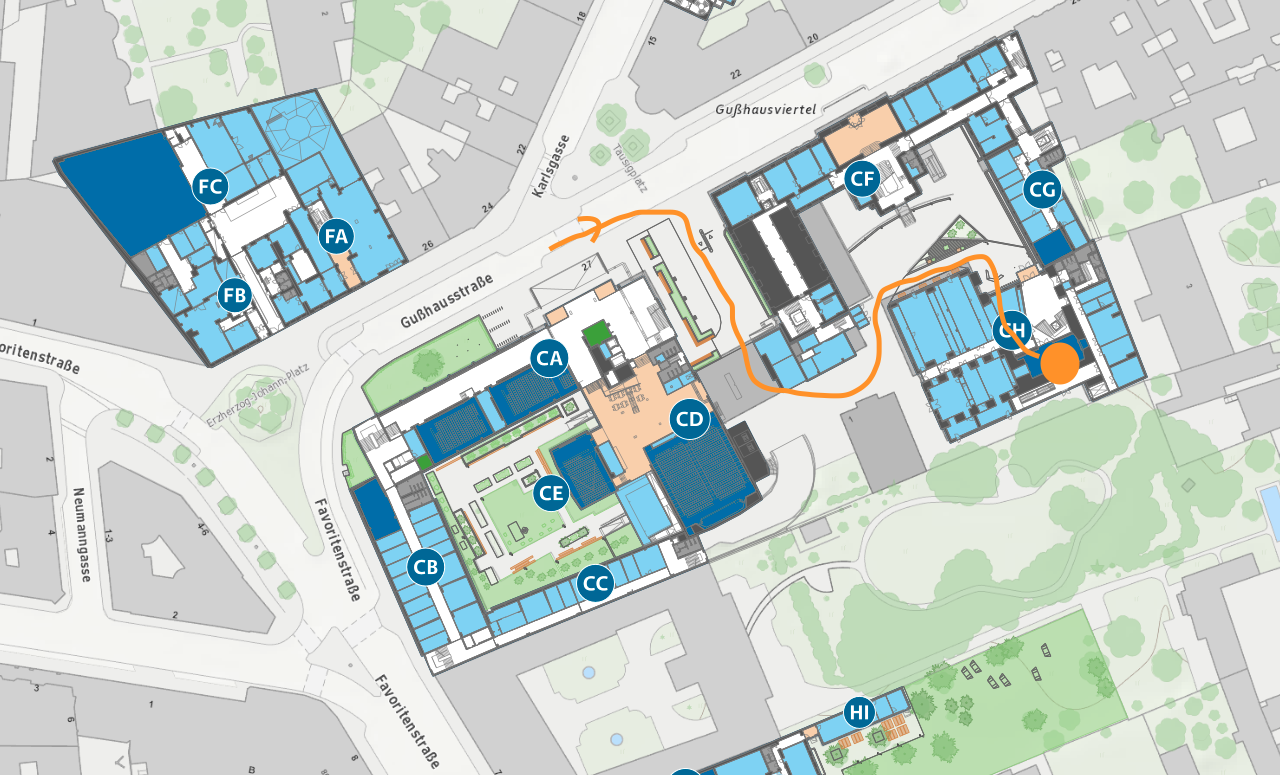
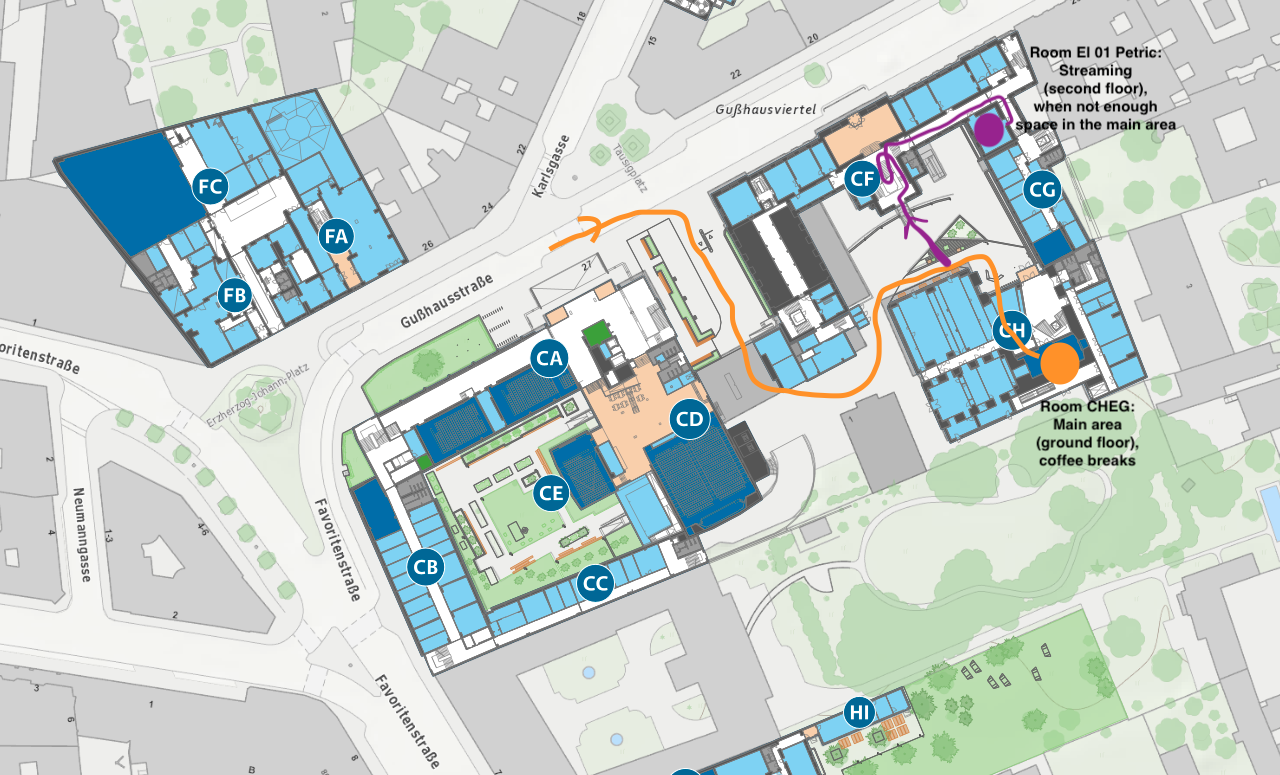
venue extra room

Changed region(s): [[0.6875, 0.0619, 0.9375, 0.3406], [0.8125, 0.4955, 0.9062, 0.6194]]

diff --git a/2023/index.html b/2023/index.html
@@ -158,7 +158,8 @@
     <h3>Venue</h3>
 
     <p>Gußhausstraße 27 - 29, 1040 Wien, Austria</p>
-    <p>4.OG, Seminarraum CH EG, Room number CD 04 04</p>
+    <p>Main area: 4.OG, Seminarraum CH EG, Room number CD 04 04 (ground floor) </p>
+    <p>Streaming (when not enough space): Room El 01 Petric (second floor, counting from zero)</p>
     <a href="venue.png">How to get there (map)</a>.
 
     <p><b>Roadblocks:</b> On Sunday, 23rd April 2023, is the Vienna City Marathon. Some roads are going to be closed and some forms of public transport will be unavailable. However, the ubahn (underground metro) should run smoothly during the event, so plan your route to the venue accordingly.</p>

diff --git a/2023/local-info.html b/2023/local-info.html
@@ -28,7 +28,8 @@
     <h3>Venue</h3>
 
     <p>Gußhausstraße 27 - 29, 1040 Wien, Austria</p>
-    <p>4.OG, Seminarraum CH EG, Room number CD 04 04</p>
+    <p>Main area: 4.OG, Seminarraum CH EG, Room number CD 04 04 (ground floor) </p>
+    <p>Streaming (when not enough space): Room El 01 Petric (second floor, counting from zero)</p>
     <a href="venue.png">How to get there (map)</a>.
 
     <p><b>Roadblocks:</b> On Sunday, 23rd April 2023, is the Vienna City Marathon. Some roads are going to be closed and some forms of public transport will be unavailable. However, the ubahn (underground metro) should run smoothly during the event, so plan your route to the venue accordingly.</p>
